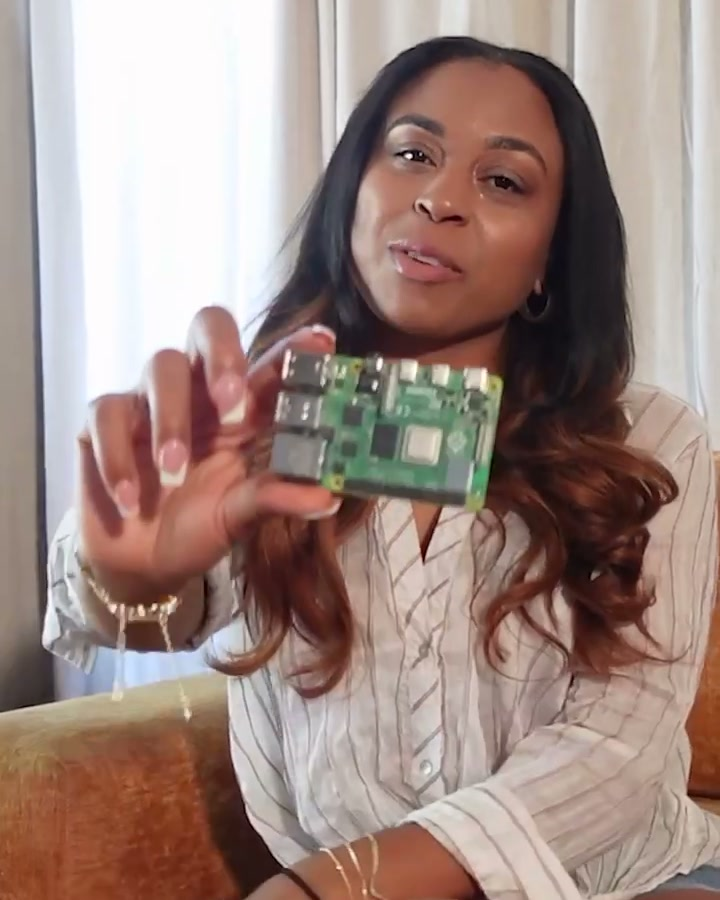
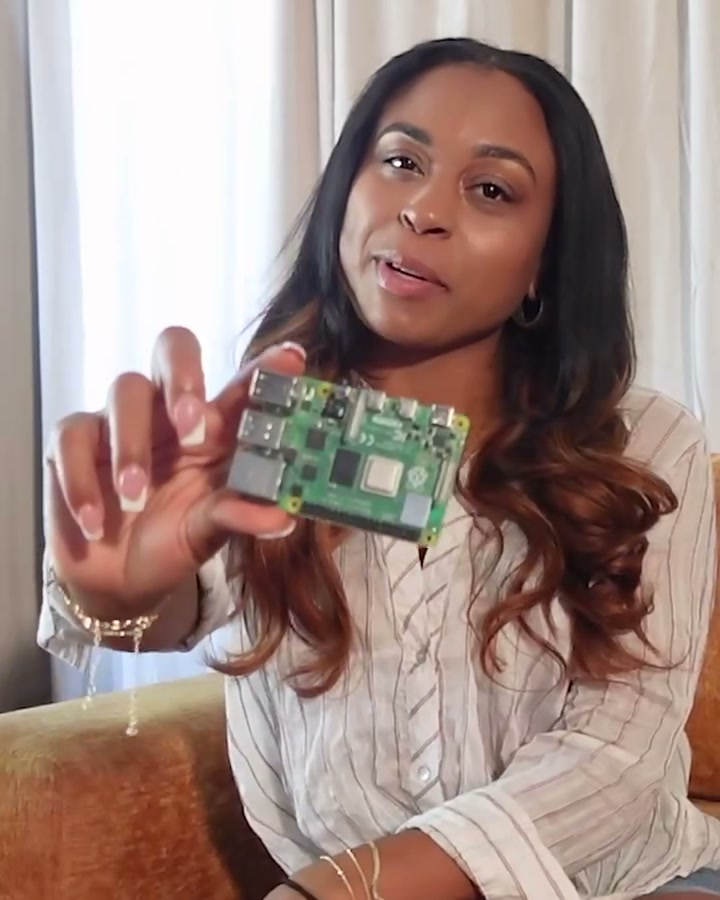
Swap garden and Jazmine OS photos for smiling, eyes-open frames

diff --git a/index.html b/index.html
@@ -299,7 +299,7 @@ footer { max-width: 36rem; margin: 0 auto; padding-inline: 20px; padding-block: 
       </article></li>
     <li><span class="node" aria-hidden="true"></span>
       <article class="card card-photo">
-        <img class="card-img" src="home-assistant.jpg?v=3" width="720" height="900" loading="lazy" alt="Jazmine holding up the Raspberry Pi board that runs Home Assistant">
+        <img class="card-img" src="home-assistant.jpg?v=4" width="720" height="900" loading="lazy" alt="Jazmine holding up the Raspberry Pi board that runs Home Assistant">
         <div class="card-body">
         <span class="kick">Home Assistant · AI</span>
         <h3>Jazmine OS</h3>
@@ -309,7 +309,7 @@ footer { max-width: 36rem; margin: 0 auto; padding-inline: 20px; padding-block: 
       </article></li>
     <li><span class="node" aria-hidden="true"></span>
       <article class="card card-photo">
-        <img class="card-img" src="garden.jpg?v=2" width="800" height="1000" loading="lazy" alt="Jazmine at her raised bed checking a soil moisture sensor, with fall seedlings and the trellis behind her">
+        <img class="card-img" src="garden.jpg?v=3" width="800" height="1000" loading="lazy" alt="Jazmine smiling in her garden under the vine trellis">
         <div class="card-body">
         <span class="kick">Restoration · Garden</span>
         <h3>The 1939 Spanish Colonial</h3>
